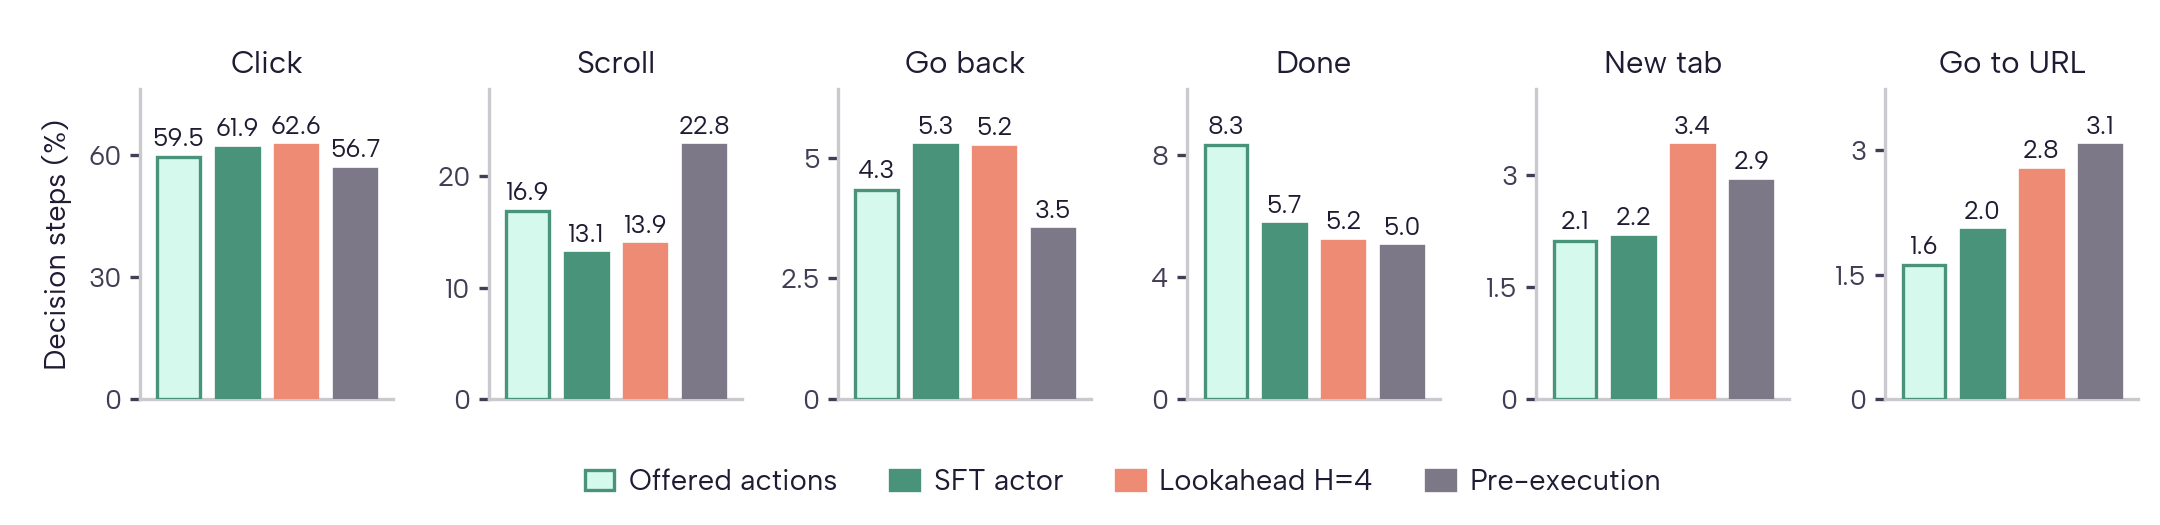
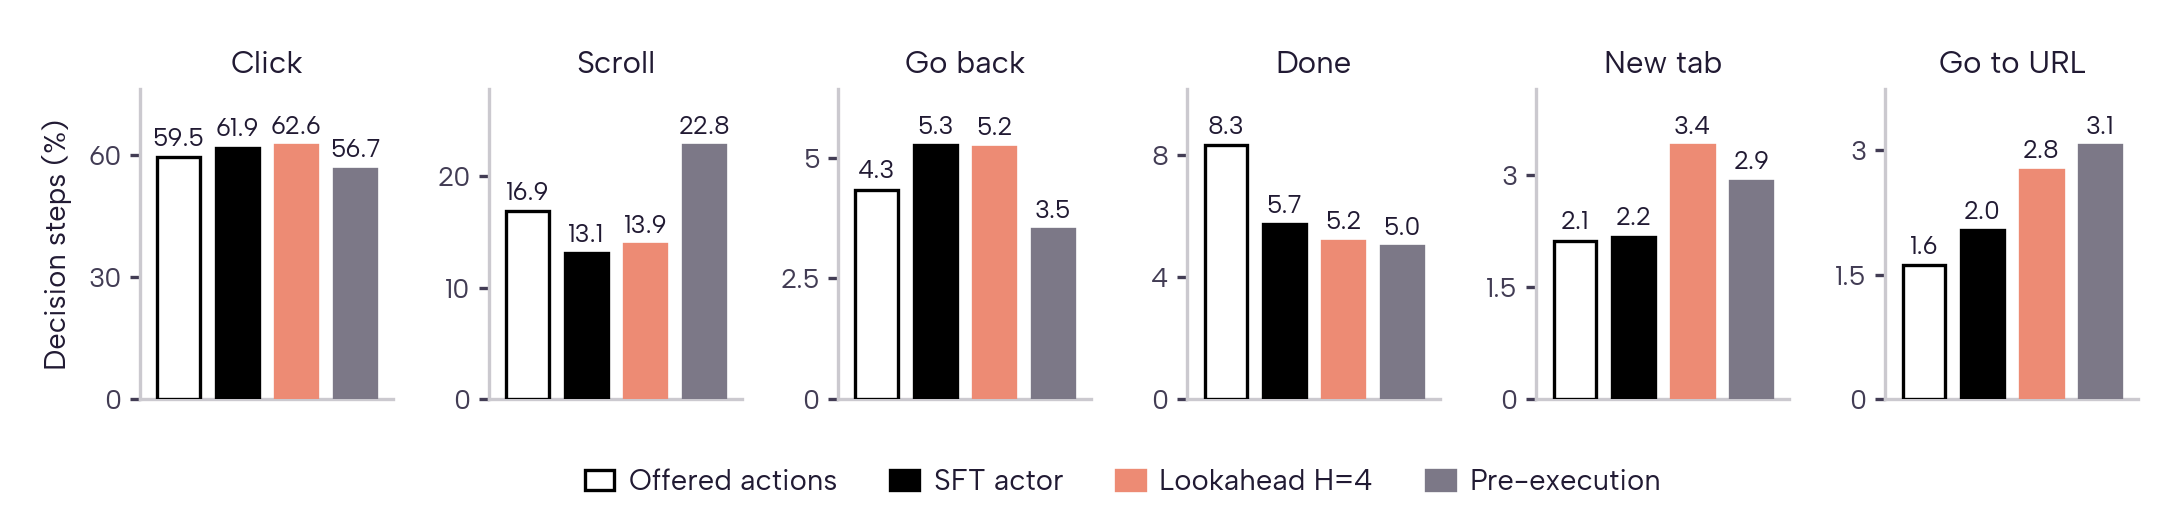
Restore black actor and hollow candidate bars in action distribution

diff --git a/openwebrl/docs/arm_results/rl_integration/selection-head-action-types-avg-row-20261116-plot.py b/openwebrl/docs/arm_results/rl_integration/selection-head-action-types-avg-row-20261116-plot.py
@@ -23,7 +23,7 @@ TOOLS = [("click", "click"), ("scroll", "scroll"), ("go_back", "go back"), ("don
 pool = lambda keys, f: sum((collections.Counter(d[k][f]) for k in keys), collections.Counter())
 share = lambda c, t: 100 * c.get(t, 0) / sum(c.values())
 L = [k for k in d if k.endswith("-lookahead")]; P = [k for k in d if k.endswith("-pre")]
-BARS = [("offered", pool(L + P, "offered"), tint("STATE", .70), C["STATE_BORDER"]), ("SFT alone", collections.Counter(d["sft"]["picked"]), C["STATE_BORDER"], C["STATE_BORDER"]),
+BARS = [("offered", pool(L + P, "offered"), "white", "black"), ("SFT alone", collections.Counter(d["sft"]["picked"]), "black", "black"),
         ("lookahead", pool(L, "picked"), C["LOOKAHEAD_TEACHER"], C["LOOKAHEAD_TEACHER"]), ("pre-exec.", pool(P, "picked"), C["PRE_EXEC"], C["PRE_EXEC"])]
 from matplotlib.patches import Patch
 from matplotlib.ticker import MaxNLocator, StrMethodFormatter

diff --git a/openwebrl/docs/ARM_HEAD_SIZE_ABLATIONS.md b/openwebrl/docs/ARM_HEAD_SIZE_ABLATIONS.md
@@ -113,7 +113,7 @@ All success rates in this document are **overall success** (successes / episodes
 
 ![Action types selected by pre-execution and lookahead heads, offered candidates and SFT, in one full-width row](arm_results/rl_integration/selection-head-action-types-avg-row-20261116.png)
 
-*Same event counts and percentages as the [two-row average figure](arm_results/rl_integration/selection-head-action-types-avg-20261115.png), arranged in six panels across a 7.2 × 1.75-inch figure with one shared legend. Pale-mint bars with green outlines represent offered actions; solid muted-green bars represent SFT. Offered-actions bars show shares of all proposed candidate actions; the remaining bars show shares of selected decision steps for SFT alone and lookahead/pre-execution heads pooled across the four head sizes (23K, 4.4M, 22.6M, 1.8B), three evaluation runs each in the November 14–15 window. Head sizes, tasks and benchmarks are weighted by their recorded event counts, not equally. Unshown tool categories remain in each denominator; per-tool y ranges differ. No confidence intervals or significance claims are inferred from these pooled counts. Original values are unchanged.* [PDF](arm_results/rl_integration/selection-head-action-types-avg-row-20261116.pdf) · [SVG](arm_results/rl_integration/selection-head-action-types-avg-row-20261116.svg) · [Renderer](arm_results/rl_integration/selection-head-action-types-avg-row-20261116-plot.py) · [Plotted percentages and denominators](arm_results/rl_integration/selection-head-action-types-avg-row-20261116.json).
+*Same event counts and percentages as the [two-row average figure](arm_results/rl_integration/selection-head-action-types-avg-20261115.png), arranged in six panels across a 7.2 × 1.75-inch figure with one shared legend. Hollow black bars represent offered actions; solid black bars represent SFT. Offered-actions bars show shares of all proposed candidate actions; the remaining bars show shares of selected decision steps for SFT alone and lookahead/pre-execution heads pooled across the four head sizes (23K, 4.4M, 22.6M, 1.8B), three evaluation runs each in the November 14–15 window. Head sizes, tasks and benchmarks are weighted by their recorded event counts, not equally. Unshown tool categories remain in each denominator; per-tool y ranges differ. No confidence intervals or significance claims are inferred from these pooled counts. Original values are unchanged.* [PDF](arm_results/rl_integration/selection-head-action-types-avg-row-20261116.pdf) · [SVG](arm_results/rl_integration/selection-head-action-types-avg-row-20261116.svg) · [Renderer](arm_results/rl_integration/selection-head-action-types-avg-row-20261116-plot.py) · [Plotted percentages and denominators](arm_results/rl_integration/selection-head-action-types-avg-row-20261116.json).
 
 ![Action types chosen by lookahead- and pre-execution-label heads: share of decision steps per tool, with SFT 4B alone and the offered candidates](arm_results/rl_integration/selection-head-action-types-20261115.png)
 

diff --git a/openwebrl/docs/ARM_FINAL_RESULTS.md b/openwebrl/docs/ARM_FINAL_RESULTS.md
@@ -1774,7 +1774,7 @@ All four attention × scorer × loss combinations plus causal attention, one run
 
 ![Action types selected by pre-execution and lookahead heads, offered candidates and SFT, in one full-width row](arm_results/rl_integration/selection-head-action-types-avg-row-20261116.png)
 
-*Same event counts and percentages as the [two-row average figure](arm_results/rl_integration/selection-head-action-types-avg-20261115.png), arranged in six panels across a 7.2 × 1.75-inch figure with one shared legend. Pale-mint bars with green outlines represent offered actions; solid muted-green bars represent SFT. Offered-actions bars show shares of all proposed candidate actions; the remaining bars show shares of selected decision steps for SFT alone and lookahead/pre-execution heads pooled across the four head sizes (23K, 4.4M, 22.6M, 1.8B), three evaluation runs each in the November 14–15 window. Head sizes, tasks and benchmarks are weighted by their recorded event counts, not equally. Unshown tool categories remain in each denominator; per-tool y ranges differ. No confidence intervals or significance claims are inferred from these pooled counts. Original values are unchanged.* [PDF](arm_results/rl_integration/selection-head-action-types-avg-row-20261116.pdf) · [SVG](arm_results/rl_integration/selection-head-action-types-avg-row-20261116.svg) · [Renderer](arm_results/rl_integration/selection-head-action-types-avg-row-20261116-plot.py) · [Plotted percentages and denominators](arm_results/rl_integration/selection-head-action-types-avg-row-20261116.json).
+*Same event counts and percentages as the [two-row average figure](arm_results/rl_integration/selection-head-action-types-avg-20261115.png), arranged in six panels across a 7.2 × 1.75-inch figure with one shared legend. Hollow black bars represent offered actions; solid black bars represent SFT. Offered-actions bars show shares of all proposed candidate actions; the remaining bars show shares of selected decision steps for SFT alone and lookahead/pre-execution heads pooled across the four head sizes (23K, 4.4M, 22.6M, 1.8B), three evaluation runs each in the November 14–15 window. Head sizes, tasks and benchmarks are weighted by their recorded event counts, not equally. Unshown tool categories remain in each denominator; per-tool y ranges differ. No confidence intervals or significance claims are inferred from these pooled counts. Original values are unchanged.* [PDF](arm_results/rl_integration/selection-head-action-types-avg-row-20261116.pdf) · [SVG](arm_results/rl_integration/selection-head-action-types-avg-row-20261116.svg) · [Renderer](arm_results/rl_integration/selection-head-action-types-avg-row-20261116-plot.py) · [Plotted percentages and denominators](arm_results/rl_integration/selection-head-action-types-avg-row-20261116.json).
 
 **Alternative: absolute success on the left, paired label effect on the right**
 
